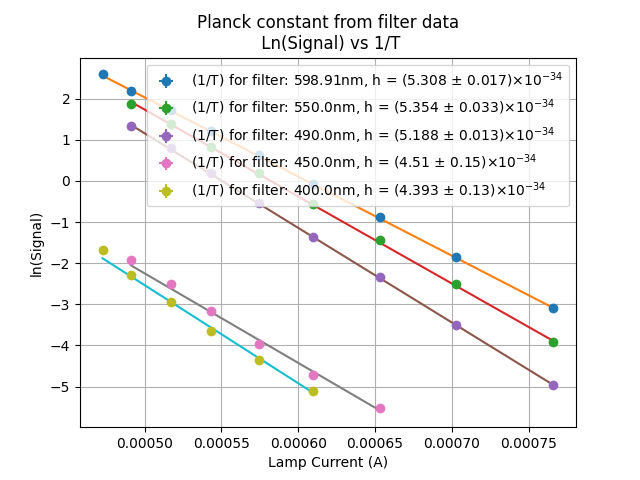
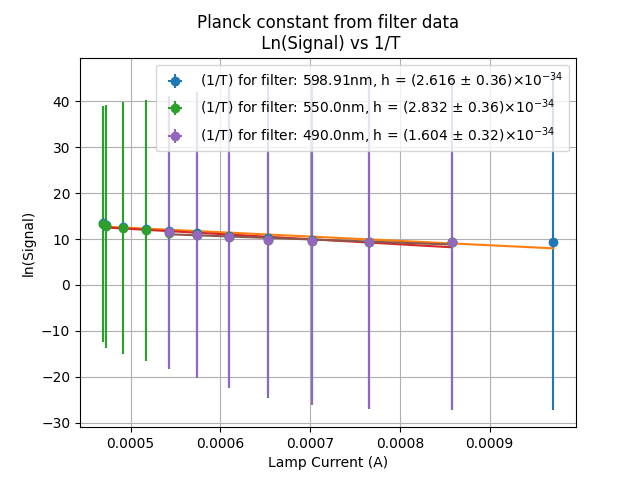
voltage photodetector

diff --git a/cal_h_from_filter_data_voltage.py b/cal_h_from_filter_data_voltage.py
@@ -1,0 +1,84 @@
+# Chris 08.03.2024
+# calculating the planck constant from the filter data obtained
+
+# importing 
+import numpy as np
+import matplotlib.pyplot as plt
+import scipy.optimize as opt
+import functions as f
+from scipy.interpolate import CubicSpline
+
+lambdas = [598.91e-9, 550e-9, 490e-9, 450e-9, 400e-9]
+c = 2.99792e8
+h = 6.626e-34
+k_b = 1.380649e-23
+
+def linear(x, a, b):
+    result = np.zeros(len(x))
+    for i in range(len(x)):
+        if x[i] == 0:
+            result[i] = np.nan
+        else:
+            result[i] = a*x[i] + b
+    return a*x + b
+
+def round_to_significant_figure(x, n):
+    if x == 0:
+        return 0
+    else:
+        # Determine the order of magnitude of the number
+        order_of_magnitude = np.floor(np.log10(np.abs(x)))
+        # Round the number to the first significant figure
+        rounded_number = x * 10**(n-order_of_magnitude)
+        rounded_number = np.round(rounded_number)
+        rounded_number = rounded_number / 10**(n-order_of_magnitude)
+        return rounded_number
+
+# importing the data
+data = np.loadtxt('data\\gain_photodetector.csv', delimiter=',', skiprows=1)
+
+data_index = [2,3,4]
+uncert_index = [1,1,1]
+for i in range(len(data_index)):
+    lambda1 = lambdas[i]
+    lamp_current = data[:, 0]
+    lamp_current_uncert = np.array([0.0001 for i in range(len(lamp_current))])  #    data[:, 1]   ################ need to measure this ################
+    filter1 = data[:, data_index[i]] * 1e3
+    filter_uncert = data[:, uncert_index[i]] * 1e3
+
+
+    # cupic spline interpolation to get the T_B from the current measured
+    taken_data = np.loadtxt('data\\resistance_to_temp.csv', delimiter=',', skiprows=1) 
+    cs = CubicSpline(taken_data[:, 4], f.cal_temp_B_from_temp_R(f.cal_temp_from_normalised_resistance(taken_data[:, -1])))
+
+
+    # removing the 0 values from the data
+    mask = filter1 != 0
+    filter1 = filter1[mask]
+    filter_uncert = filter_uncert[mask]
+    reduced_lamp_current = lamp_current[mask]
+    reduced_lamp_current_uncert = lamp_current_uncert[mask]
+
+    # calculating
+    filter1 = np.log(filter1)
+    filter_uncert = filter_uncert/filter1
+    temperture = cs(reduced_lamp_current)
+    x_values = 1 / temperture
+    x_values_uncert = 1 / temperture**2 * reduced_lamp_current_uncert
+    optimal_params, cov_matrix = opt.curve_fit(linear, x_values, filter1, sigma=filter_uncert)
+    h_measured = -1 * k_b * optimal_params[0] * lambda1 / c
+    h_measured_uncert = 1 * k_b * np.sqrt(cov_matrix[0,0]) * lambda1 / c
+    print('\nfor filter: ', lambda1,'h measured:', h_measured, 'fractional error:' , abs(h - h_measured) / h )
+
+    # plotting the data
+    plt.title('Planck constant from filter data\n Ln(Signal) vs 1/T')
+    plt.errorbar(x_values, filter1, yerr=abs(filter_uncert), xerr=x_values_uncert, fmt='o', label='(1/T) for filter: ' + str(round_to_significant_figure(lambda1*1e9, 4)) + "nm, h = (" + str(round_to_significant_figure(h_measured*1e34,3)) + " $\pm$ " + str(round_to_significant_figure(h_measured_uncert*1e34,1)) + ')$\\times 10^{-34}$')
+    # plt.errorbar(x_values, filter1, yerr=abs(filter_uncert), xerr=x_values_uncert, fmt='o', label="(1/T) for filter: {:.3f}, h = {:.3f} $\pm$ {:.1f} ".format(lambda1, h_measured, h_measured_uncert))
+
+    plt.plot(x_values, linear(x_values,*optimal_params)) #, label='y = {:.2f}x + {:.2f}'.format(optimal_params[0], optimal_params[1]))
+    plt.xlabel('Lamp Current (A)')
+    plt.ylabel('ln(Signal)')
+plt.grid()
+plt.legend()
+plt.savefig('graphs\\planck_constant_from_filter_data.png')
+plt.show()
